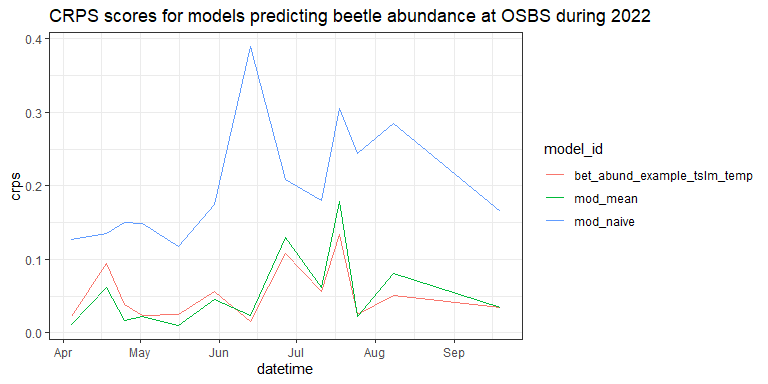
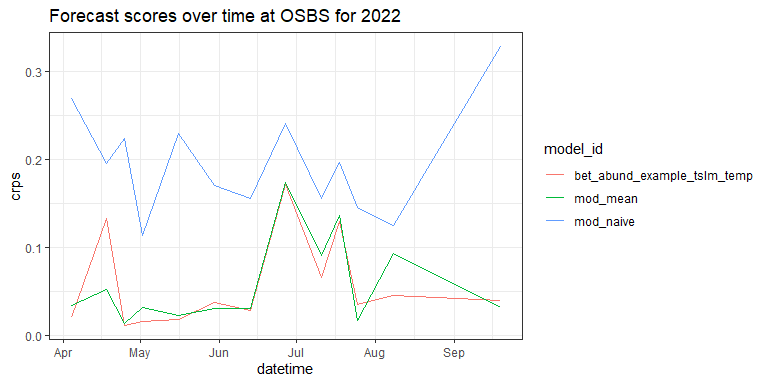
add acknowledgements

diff --git a/tutorials/ESA2024/NEON_forecast_challenge_beetle_tutorial_ESA2024.md b/tutorials/ESA2024/NEON_forecast_challenge_beetle_tutorial_ESA2024.md
@@ -634,12 +634,12 @@ head(fc_best_lm_efi)
     ## # A tibble: 6 × 10
     ##   datetime   site_id parameter model_id    family variable prediction project_id
     ##   <date>     <chr>   <chr>     <chr>       <chr>  <chr>         <dbl> <chr>     
-    ## 1 2022-01-01 OSBS    1         bet_abund_… ensem… abundan…     0.0483 neon4cast 
-    ## 2 2022-01-01 OSBS    2         bet_abund_… ensem… abundan…     0.0868 neon4cast 
-    ## 3 2022-01-01 OSBS    3         bet_abund_… ensem… abundan…    -0.0423 neon4cast 
-    ## 4 2022-01-01 OSBS    4         bet_abund_… ensem… abundan…    -0.0192 neon4cast 
-    ## 5 2022-01-01 OSBS    5         bet_abund_… ensem… abundan…     0.0500 neon4cast 
-    ## 6 2022-01-01 OSBS    6         bet_abund_… ensem… abundan…     0.134  neon4cast 
+    ## 1 2022-01-01 OSBS    1         bet_abund_… ensem… abundan…    0.105   neon4cast 
+    ## 2 2022-01-01 OSBS    2         bet_abund_… ensem… abundan…   -0.0178  neon4cast 
+    ## 3 2022-01-01 OSBS    3         bet_abund_… ensem… abundan…    0.00537 neon4cast 
+    ## 4 2022-01-01 OSBS    4         bet_abund_… ensem… abundan…    0.00980 neon4cast 
+    ## 5 2022-01-01 OSBS    5         bet_abund_… ensem… abundan…    0.0789  neon4cast 
+    ## 6 2022-01-01 OSBS    6         bet_abund_… ensem… abundan…    0.0569  neon4cast 
     ## # ℹ 2 more variables: reference_datetime <chr>, duration <chr>
 
 ``` r
@@ -817,7 +817,7 @@ all_mod_scores %>%
   ggplot(aes(datetime, crps, color = model_id)) +
   geom_line() +
   theme_bw() +
-  ggtitle("CRPS scores for models predicting beetle abundance at OSBS during 2022")
+  ggtitle("Forecast scores over time at OSBS for 2022")
 ```
 
 <img src="NEON_forecast_challenge_beetle_tutorial_ESA2024_files/figure-markdown_github/plot forecast scores-1.png" alt="Figure: Forecast scores (CRPS) for models predicting beetle abundance at the OSBS NEON site during the 2022 field season"  />
@@ -825,6 +825,10 @@ all_mod_scores %>%
 Figure: Forecast scores (CRPS) for models predicting beetle abundance at
 the OSBS NEON site during the 2022 field season
 </p>
+
+-   Which model(s) did best?
+-   What might explain the differences in scores between the different
+    models?
 
 # 5 What’s next?
 
@@ -834,3 +838,11 @@ the OSBS NEON site during the 2022 field season
     Different forecast horizons?
 -   How could you apply what you have learned here in your research or
     teaching?
+
+# 6 Acknowledgements
+
+This tutorial is based in part off of tutorials created by Freya Olsson
+for the [NEON Forecast Challenge
+Workshop](https://github.com/OlssonF/NEON-forecast-challenge-workshop/tree/main)
+and examples created by Carl Boettiger for the [Beetle Communities theme
+documentation](https://github.com/cboettig/neon-beetles-forecasts/tree/main).
